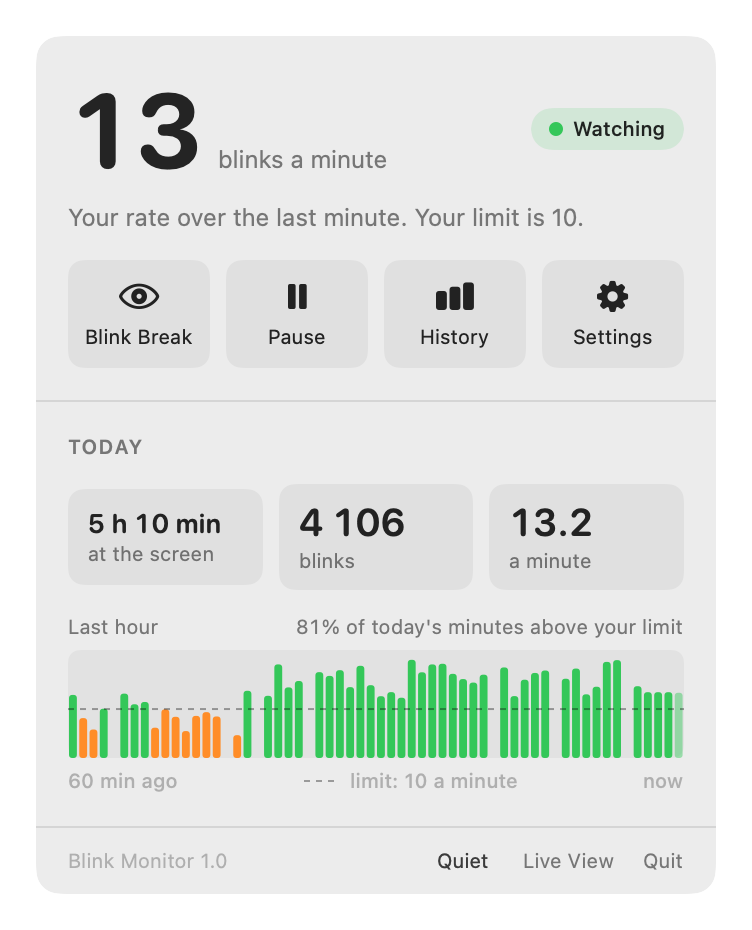
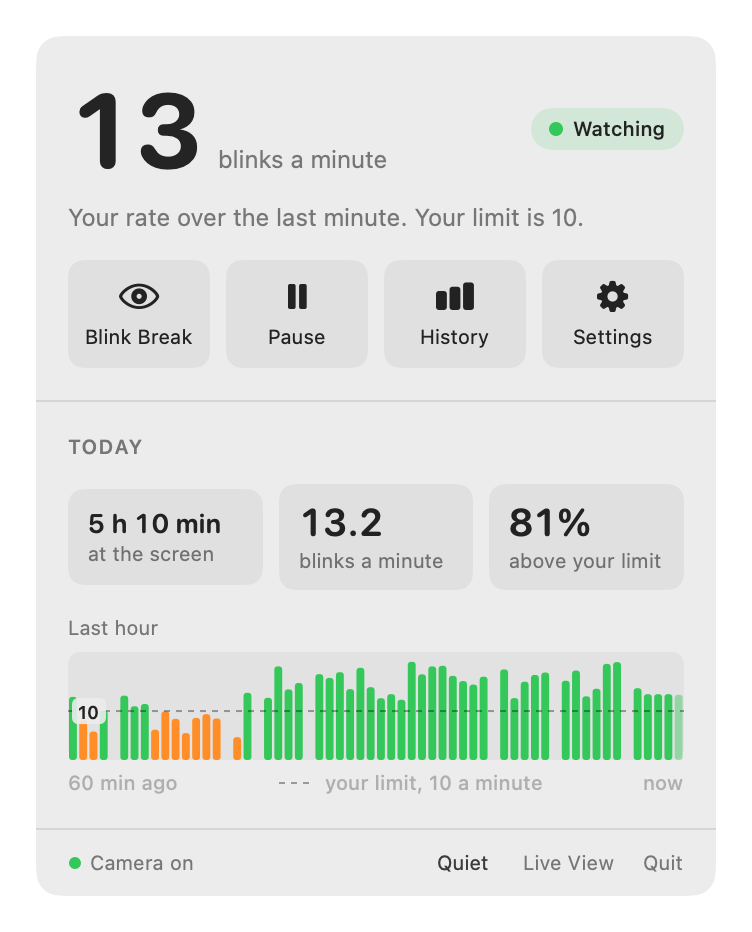
A weekly routine with nothing due is one line in the panel
It took about 110 points on days that asked for nothing, with both buttons.
It is now its name, "2 of 3" and when it comes next; a click opens the week
and the buttons. Also: shorter captions on today's tiles, which were cut, the
limit's number on a plate at the left of its line, and "Camera on" no longer
shown while paused.

diff --git a/Sources/BlinkMonitor/MenuBar/MenuPanelView.swift b/Sources/BlinkMonitor/MenuBar/MenuPanelView.swift
@@ -95,7 +95,7 @@ struct MenuPanelView: View {
            }
           }
             Divider()
-            FooterRow(model: model, bare: bare, actions: actions)
+            FooterRow(model: model, bare: bare, cameraOn: status.isCameraOn, actions: actions)
                 .padding(.horizontal, 16)
                 .padding(.vertical, 10)
         }
@@ -400,9 +400,10 @@ private struct TodaySection: View {
             SectionTitle("Today")
             HStack(spacing: 8) {
                 StatTile(value: Format.duration(today.observedSeconds), caption: "at the screen")
-                StatTile(value: today.ratePerMinute.map { String(format: "%.1f", $0) } ?? "--", caption: "blinks a minute, average")
-                    .help("\(today.blinks.formatted()) blinks counted today")
-                StatTile(value: today.lowShare.map { "\(Int(((1 - $0) * 100).rounded()))%" } ?? "--", caption: "of minutes above your limit")
+                StatTile(value: today.ratePerMinute.map { String(format: "%.1f", $0) } ?? "--", caption: "blinks a minute")
+                    .help("Today's average. \(today.blinks.formatted()) blinks counted today.")
+                StatTile(value: today.lowShare.map { "\(Int(((1 - $0) * 100).rounded()))%" } ?? "--", caption: "above your limit")
+                    .help("The share of today's minutes at or above your limit of \(limit) blinks a minute")
             }
             VStack(alignment: .leading, spacing: 5) {
                 HStack {
@@ -492,8 +493,12 @@ private struct MinuteBars: View {
             line.addLine(to: CGPoint(x: size.width, y: y))
             context.stroke(line, with: .color(.secondary.opacity(0.7)), style: StrokeStyle(lineWidth: 1, dash: [3, 3]))
             // The line carries its number: the chart had no scale at all.
-            context.draw(Text("\(Int(limit))").font(.system(size: 9, weight: .semibold)).foregroundColor(.secondary),
-                         at: CGPoint(x: size.width - 3, y: y - 6), anchor: .trailing)
+            let number = context.resolve(Text("\(Int(limit))").font(.system(size: 9, weight: .semibold)).foregroundColor(.primary))
+            let measured = number.measure(in: size)
+            let plate = CGRect(x: 2, y: y - measured.height / 2 - 1, width: measured.width + 6, height: measured.height + 2)
+            // On a plate of its own, at the left end: over the bars it could not be read.
+            context.fill(Path(roundedRect: plate, cornerRadius: 3), with: .color(Color(nsColor: .windowBackgroundColor).opacity(0.9)))
+            context.draw(number, at: CGPoint(x: plate.midX, y: plate.midY), anchor: .center)
         }
         .background(Color.primary.opacity(0.05), in: RoundedRectangle(cornerRadius: 6))
         .overlay {
@@ -585,13 +590,15 @@ private struct CameraOnStyle: LabelStyle {
 private struct FooterRow: View {
     @ObservedObject var model: MonitorModel
     let bare: Bool
+    /// The camera is running (asked of the panel's own moment, not of the clock).
+    let cameraOn: Bool
     let actions: PanelActions
 
     var body: some View {
             HStack(spacing: 14) {
                 // The green light is explained in the setup, then seen every day: three days
                 // later the panel is where someone looks to learn whose it is.
-                if model.status().isCameraOn && !model.isDemo {
+                if cameraOn && !model.isDemo {
                     Label("Camera on", systemImage: "circle.fill")
                         .labelStyle(CameraOnStyle())
                         .help("The green light beside the camera is Blink Monitor counting your blinks. Pause turns it off.")

diff --git a/Sources/BlinkMonitor/MenuBar/RoutineViews.swift b/Sources/BlinkMonitor/MenuBar/RoutineViews.swift
@@ -77,7 +77,11 @@ private struct RoutineList: View {
     private func row(_ day: RoutineDay) -> some View {
         let running = session.session?.routine == day.routine.id ? session.session : nil
         if let week = day.week {
-            WeekRow(day: day, week: week, running: running,
+            WeekRow(day: day, week: week, running: running, isOpen: routines.openWeeks.contains(day.routine.id),
+                    toggle: {
+                        if routines.openWeeks.contains(day.routine.id) { routines.openWeeks.remove(day.routine.id) }
+                        else { routines.openWeeks.insert(day.routine.id) }
+                    },
                     calendar: routines.calendar, laterMinutes: routines.policy.laterMinutes,
                     actions: WeekRow.Actions(
                         didIt: { routines.didIt(day.routine.id) }, undo: { routines.undo(day.routine.id) },
@@ -128,11 +132,45 @@ private struct WeekRow: View {
     let week: RoutineWeek
     /// This routine's timer, while it runs.
     let running: RoutineSession?
+    /// Its days and buttons were opened by a click.
+    var isOpen = false
+    var toggle: () -> Void = {}
     let calendar: Calendar
     let laterMinutes: Int
     let actions: Actions
 
+    /// Nothing waits, nothing runs and nothing was done today: one line says it all. It
+    /// took about 110 points before, with both buttons, on days that asked for nothing.
+    private var folded: Bool {
+        !isOpen && running == nil && day.due == nil && day.putOff == nil && week.today.done == 0
+    }
+
     var body: some View {
+        if folded {
+            Button(action: toggle) {
+                HStack(alignment: .firstTextBaseline, spacing: 6) {
+                    Image(systemName: day.routine.symbol)
+                        .foregroundStyle(.tint)
+                        .frame(width: 16)
+                    Text(day.routine.title)
+                    Spacer(minLength: 8)
+                    Text("\(week.done) of \(week.target) · \(state)")
+                        .font(.caption)
+                        .foregroundStyle(.secondary)
+                    Image(systemName: "chevron.right")
+                        .font(.caption2)
+                        .foregroundStyle(.tertiary)
+                }
+                .contentShape(Rectangle())
+            }
+            .buttonStyle(.plain)
+            .help("Show the week, and mark it done")
+        } else {
+            unfolded
+        }
+    }
+
+    private var unfolded: some View {
         VStack(alignment: .leading, spacing: 7) {
             HStack(alignment: .firstTextBaseline, spacing: 6) {
                 Image(systemName: day.routine.symbol)
@@ -143,6 +181,13 @@ private struct WeekRow: View {
                 Text("\(week.done) of \(week.target) this week")
                     .font(.caption)
                     .foregroundStyle(.secondary)
+                if isOpen && running == nil && day.due == nil && day.putOff == nil && week.today.done == 0 {
+                    Button(action: toggle) {
+                        Image(systemName: "chevron.down").font(.caption2).foregroundStyle(.tertiary)
+                    }
+                    .buttonStyle(.plain)
+                    .help("Show less")
+                }
             }
             HStack(spacing: 5) {
                 ForEach(Array(week.days.enumerated()), id: \.element.id) { index, weekDay in

diff --git a/Sources/BlinkMonitor/App/Snapshots.swift b/Sources/BlinkMonitor/App/Snapshots.swift
@@ -72,10 +72,11 @@ enum Snapshots {
                                          actions: PanelActions()))
         }
         /// The panel with the routine counted by the week switched on, in a made-up week.
-        func weekPanel(_ scene: SampleData.WeekScene, withDrops: Bool = false) -> AnyView {
+        func weekPanel(_ scene: SampleData.WeekScene, withDrops: Bool = false, open: Bool = false) -> AnyView {
             let model = SampleData.model(now: now, scene: scene == .timer ? .paused : .watching)
             if withDrops { SampleData.routines(in: model, now: now, scene: .kept) }
             SampleData.week(in: model, now: now, scene: scene)
+            if open { model.routines.openWeeks = Set(model.routines.routines.map(\.id)) }
             return AnyView(MenuPanelView(model: model, history: model.history, reminders: model.reminders,
                                          preferences: model.preferences, state: PanelState(), moment: Moment(frozen: now),
                                          actions: PanelActions()))
@@ -195,6 +196,7 @@ enum Snapshots {
                 SampleData.routines(in: model, now: now, scene: .kept)
             }),
             ("panel-week", weekPanel(.toCome)),
+            ("panel-week-open", weekPanel(.toCome, open: true)),
             ("panel-week-waiting", weekPanel(.waiting)),
             ("panel-week-reached", weekPanel(.reached)),
             ("panel-week-timer", weekPanel(.timer)),

diff --git a/Sources/BlinkMonitor/App/RoutineController.swift b/Sources/BlinkMonitor/App/RoutineController.swift
@@ -71,6 +71,9 @@ final class RoutineController: ObservableObject {
     @Published private var quietDay: String?
     /// The panel shows every routine, not only what waits and what is next.
     @Published var showsAll = false
+    /// The weekly routines whose days and buttons are open in the panel. With nothing
+    /// due, a weekly routine is one line; a click opens it.
+    @Published var openWeeks: Set<String> = []
     /// Keeps `RoutineBanners` alive for as long as this is.
     private var banners: AnyObject?
 
